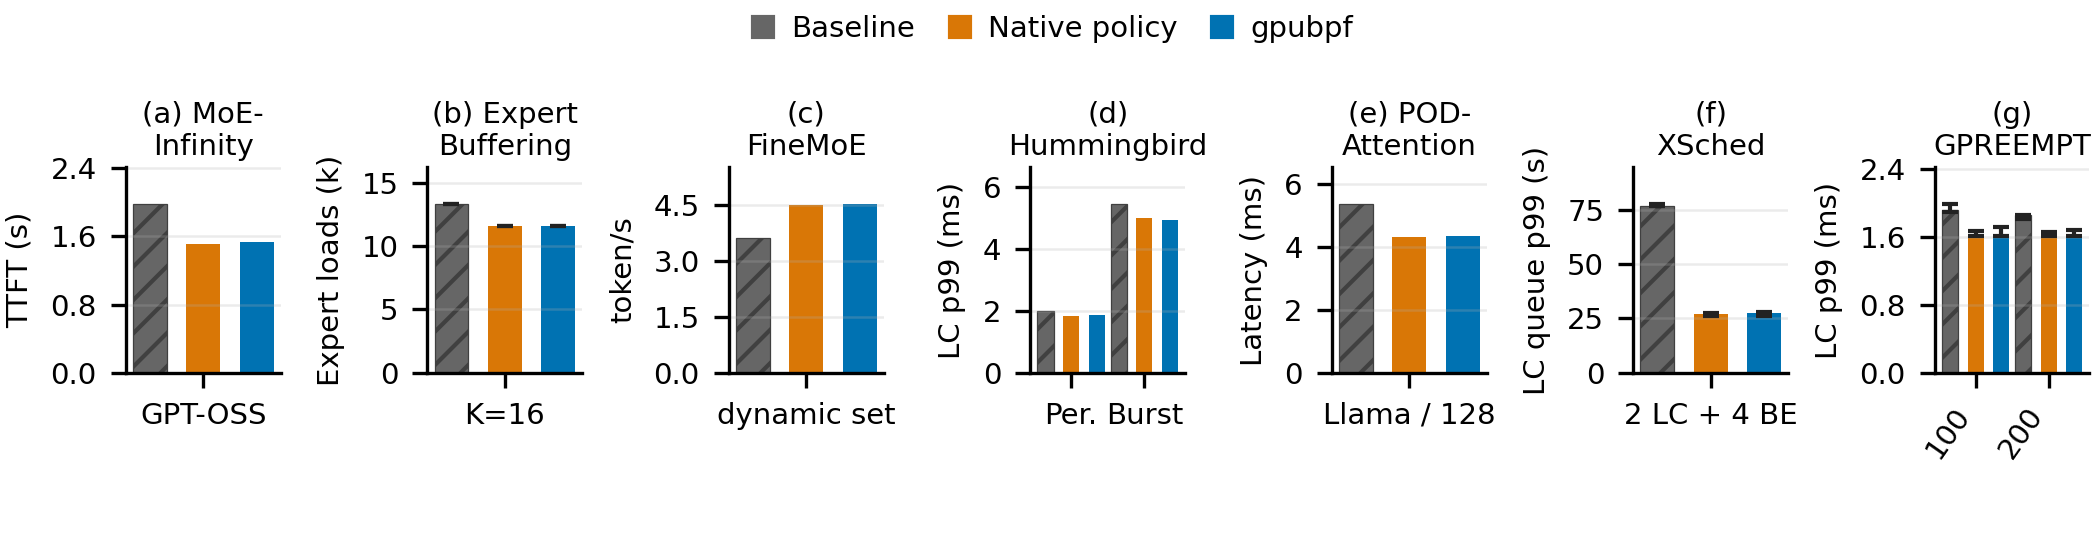
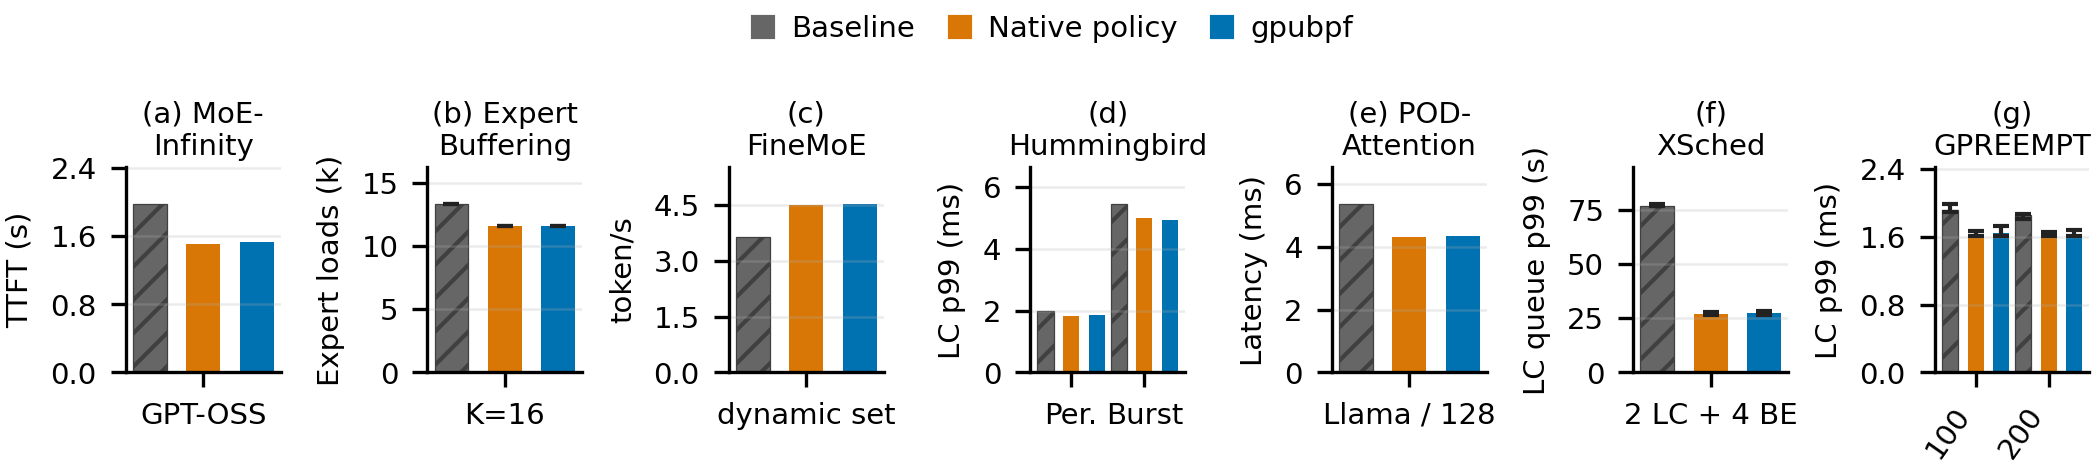
refine design section by clarifying policy action descriptions and improving figure export settings

diff --git a/tex-revision/design.tex b/tex-revision/design.tex
@@ -98,8 +98,8 @@ For example, a uprobe on \texttt{cudaLaunchKernel} concurrently initiates a 6.6\
 
 To ensure OS kernel safety, verified kfuncs restrict policy actions to two dimensions: \emph{selection} (choosing resources, e.g., eviction order, tenant preemption priority) and \emph{timing} (when to act, e.g., proactive prefetch).
 % 为保证 OS 内核安全，经验证的 kfunc 将策略动作限制在两个维度：\emph{选择}（选择资源，如逐出顺序、租户抢占优先级）和\emph{时机}（何时行动，如主动预取）。
-The driver always controls underlying state machines, so policies only select ordering and timing of driver-managed operations, cannot allocate memory or remove tasks, and revert to FIFO defaults under resource pressure or misconfiguration.
-% 驱动始终掌控底层状态机；策略只能选择驱动管理的操作的顺序和时机，不能分配内存或移除任务，并在资源压力或配置错误时回退到 FIFO 默认行为。
+The driver always controls underlying state machines, so policies only select ordering and timing of driver-managed operations, cannot allocate memory or remove tasks, and fall back to the driver's original behavior under resource pressure or misconfiguration.
+% 驱动始终掌控底层状态机；策略只能选择驱动管理的操作的顺序和时机，不能分配内存或移除任务，并在资源压力或配置错误时回退到驱动原有的行为。
 Currently, a single policy program is loaded system-wide but may internally differentiate tenant treatment for priorities, similar to sched\_ext; per-tenant isolation is future work.
 % 目前，单个策略程序系统级加载，但可在内部按优先级区分对待租户，类似 sched\_ext；按租户隔离是未来工作。
 Independent tenant policies would attach to separate cgroups, with permissions controlling policy installation and map access and budgets limiting each tenant's policy execution.

diff --git a/tex-revision/img/results-raw/revision/plot_port_panels.py b/tex-revision/img/results-raw/revision/plot_port_panels.py
@@ -111,9 +111,17 @@ def _draw(panels: list[dict], paths: list[Path]) -> None:
             figure.subplots_adjust(left=.06, right=.995, bottom=.31, top=.69, wspace=.95)
         else:
             figure.tight_layout(rect=(0, 0, 1, .94), h_pad=1.0, w_pad=1.5)
+        export_bbox = None
+        if len(panels) == 7:
+            from matplotlib.transforms import Bbox
+            figure.canvas.draw()
+            tight_bbox = figure.get_tightbbox(figure.canvas.get_renderer())
+            # Trim only the bottom; retain the 7-inch width and label sizes.
+            export_bbox = Bbox.from_extents(
+                0, max(0, tight_bbox.y0 - .03), *figure.get_size_inches())
         try:
             for path in paths:
-                figure.savefig(path, dpi=300)
+                figure.savefig(path, dpi=300, bbox_inches=export_bbox, pad_inches=0)
         finally:
             plt.close(figure)
 
